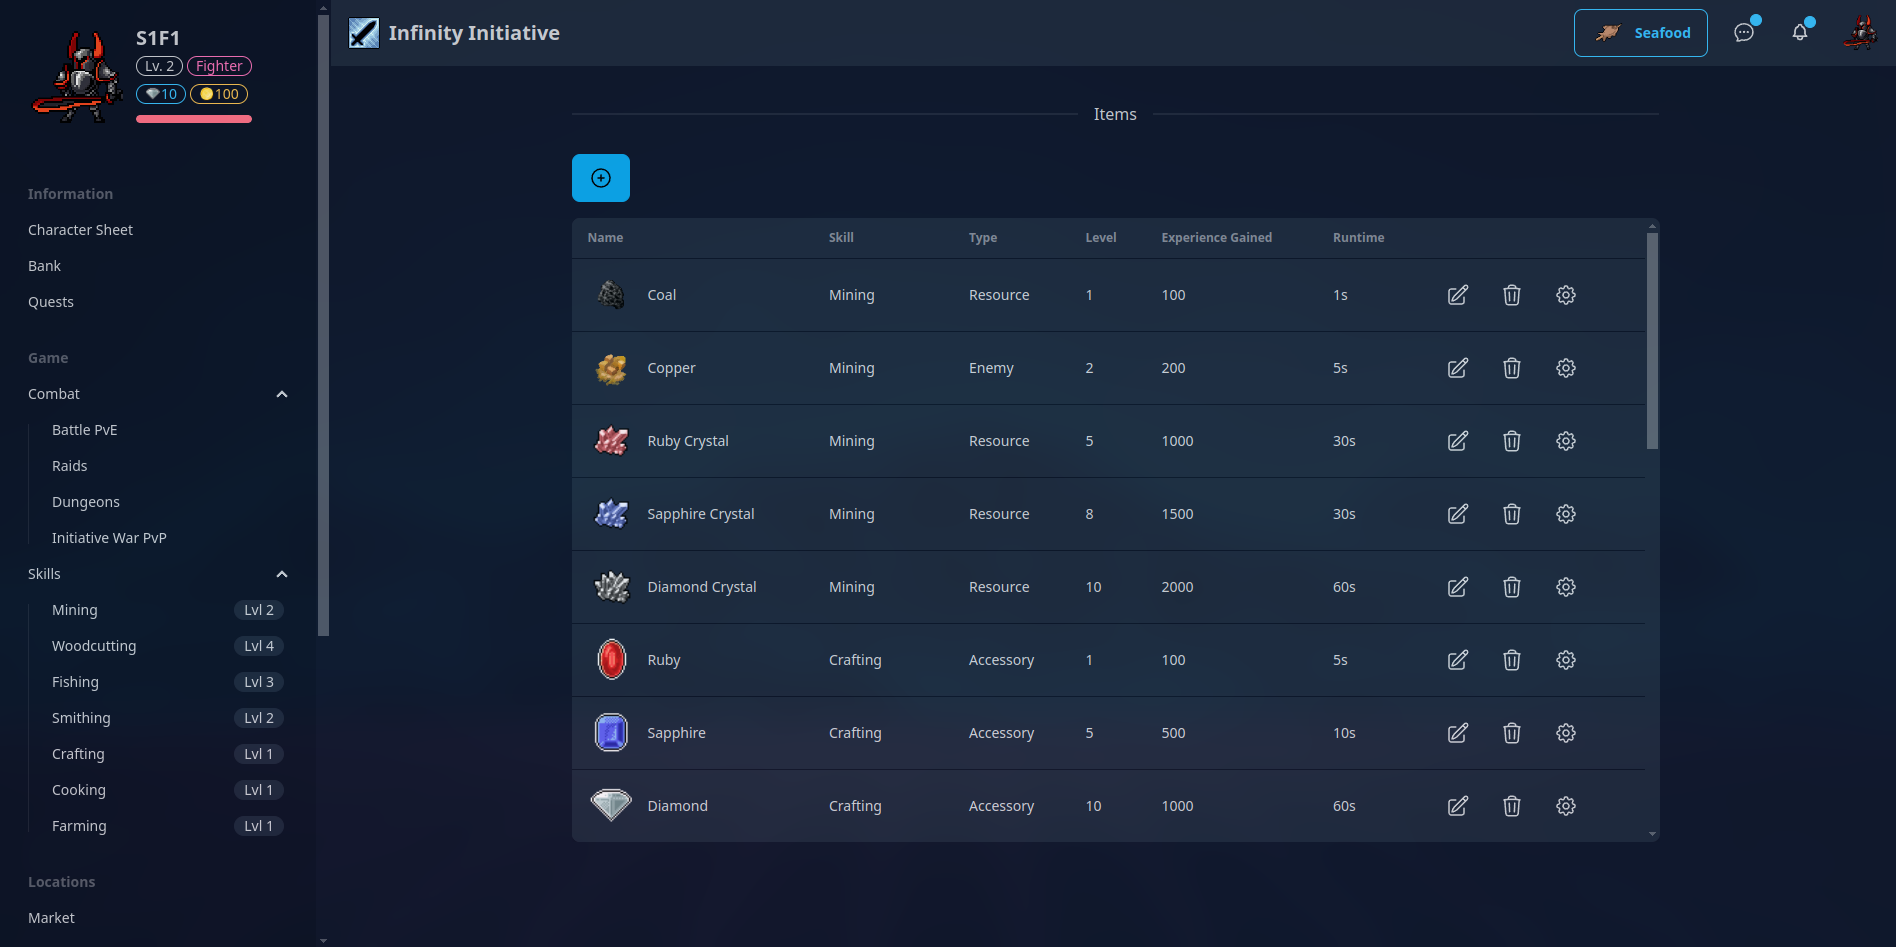
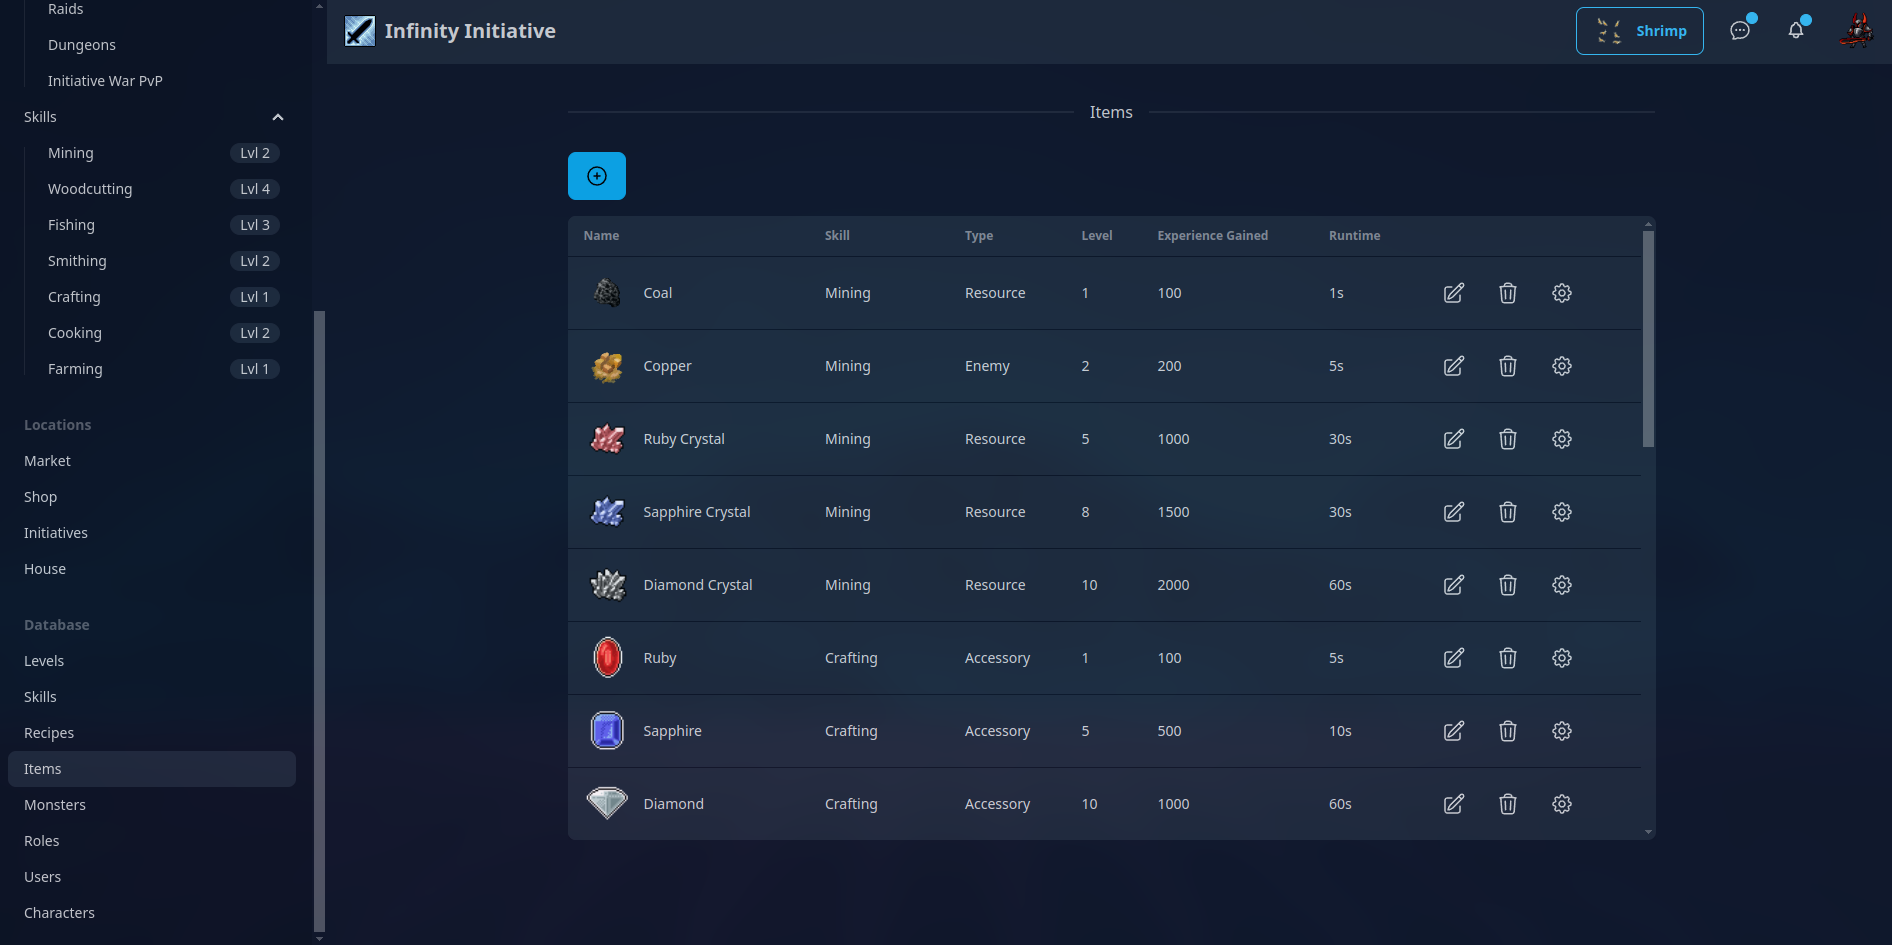
Update screenshots for readme

diff --git a/Readme.md b/Readme.md
@@ -4,7 +4,7 @@
 
 ![Game Screen](./screenshots/gamepage.png)
 
-**Full game customization!**
+### Fully data driven and Open Source!
 ![Admin Screen](./screenshots/adminpage.png)
 
 ### Tech Used:
